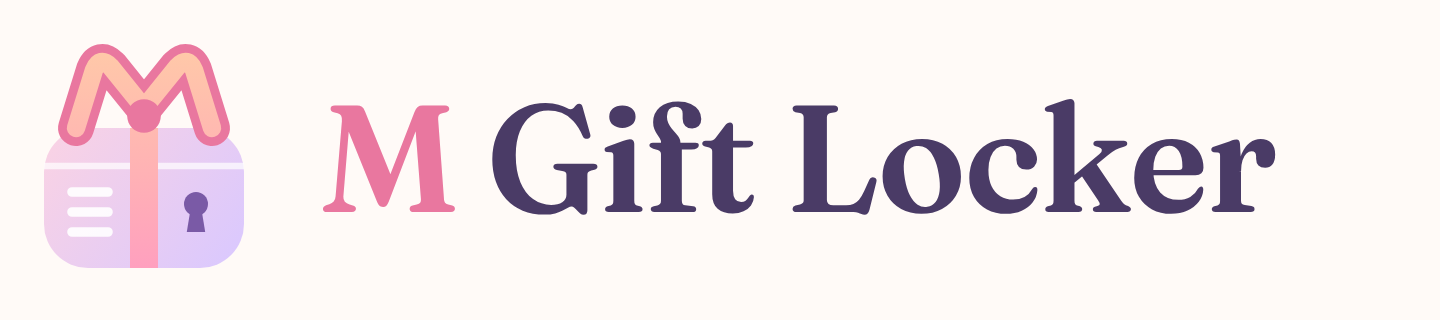
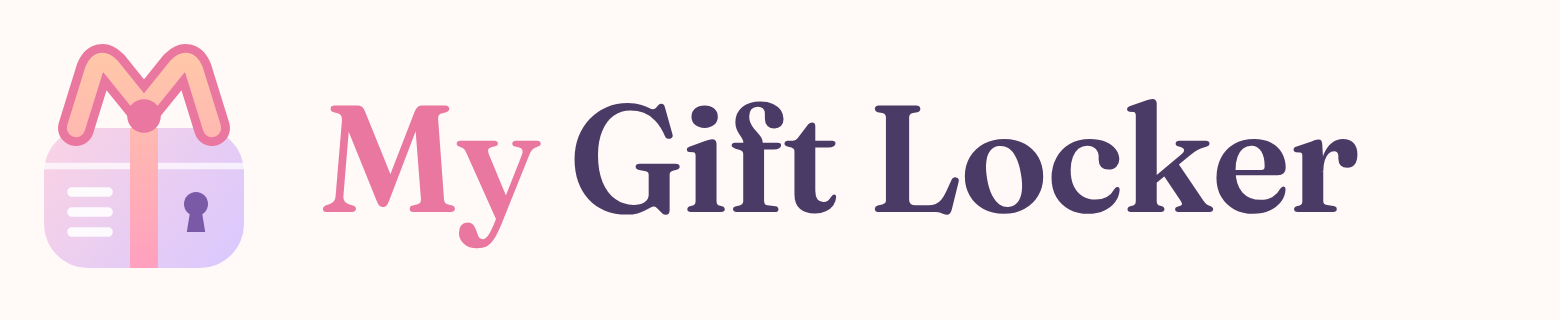
Rename to My Gift Locker: wordmark, lockup, metadata, app name, docs
Claude-Session: https://claude.ai/code/session_01KEA6tG7spbJtkkNm2jbTVp

Changed region(s): [[0.0312, 0.125, 0.9062, 0.8438]]

diff --git a/apps/web/app/page.tsx b/apps/web/app/page.tsx
@@ -26,7 +26,7 @@ export default function Home() {
             Every size, every date, <em className="text-rose not-italic">every</em> person you love.
           </h1>
           <p className="mt-6 max-w-lg text-lg text-ink-soft">
-            M Gift Locker keeps the details that make a gift feel personal — and makes gift exchanges with friends,
+            My Gift Locker keeps the details that make a gift feel personal — and makes gift exchanges with friends,
             family and coworkers effortless.
           </p>
           <div className="mt-9 flex flex-wrap gap-3">
@@ -53,7 +53,7 @@ export default function Home() {
         </div>
       </section>
 
-      <footer className="pb-10 text-center text-sm text-ink-soft">© {new Date().getFullYear()} M Gift Locker · mygiftlocker.com</footer>
+      <footer className="pb-10 text-center text-sm text-ink-soft">© {new Date().getFullYear()} My Gift Locker · mygiftlocker.com</footer>
     </main>
   );
 }

diff --git a/apps/web/app/layout.tsx b/apps/web/app/layout.tsx
@@ -7,10 +7,10 @@ const fraunces = Fraunces({ subsets: ["latin"], variable: "--font-fraunces", axe
 const nunito = Nunito({ subsets: ["latin"], variable: "--font-nunito" });
 
 export const metadata: Metadata = {
-  title: { default: "M Gift Locker", template: "%s · M Gift Locker" },
+  title: { default: "My Gift Locker", template: "%s · My Gift Locker" },
   description: "Keep everyone's sizes, addresses and special dates in one place — and run joyful gift exchanges.",
   metadataBase: new URL(process.env.NEXT_PUBLIC_SITE_URL ?? "https://mygiftlocker.com"),
-  openGraph: { siteName: "M Gift Locker", images: ["/lockup.svg"] },
+  openGraph: { siteName: "My Gift Locker", images: ["/lockup.svg"] },
 };
 
 export const viewport: Viewport = { themeColor: "#fffaf7" };

diff --git a/apps/web/components/Logo.tsx b/apps/web/components/Logo.tsx
@@ -1,6 +1,6 @@
 import { useId } from "react";
 
-/** The M Gift Locker mark: a gift-locker whose ribbon bow forms the "M". */
+/** The My Gift Locker mark: a gift-locker whose ribbon bow forms the "M". */
 export function LogoMark({ size = 40, className }: { size?: number; className?: string }) {
   const id = useId().replace(/:/g, "");
   return (
@@ -33,7 +33,7 @@ export function Logo({ size = 36 }: { size?: number }) {
     <span className="inline-flex items-center gap-2.5">
       <LogoMark size={size} />
       <span className="font-display text-[1.35rem] font-semibold tracking-tight">
-        <span className="text-rose">M</span> Gift Locker
+        <span className="text-rose">My</span> Gift Locker
       </span>
     </span>
   );

diff --git a/apps/web/app/invite/InviteBuilder.tsx b/apps/web/app/invite/InviteBuilder.tsx
@@ -172,7 +172,7 @@ function SharePanel({ url, from, to }: { url: string; from: string; to: string }
       </div>
 
       {canShare && (
-        <Button variant="soft" className="mt-3 w-full" onClick={() => navigator.share({ title: "M Gift Locker", text: `${from} invited you to M Gift Locker`, url }).catch(() => {})}>
+        <Button variant="soft" className="mt-3 w-full" onClick={() => navigator.share({ title: "My Gift Locker", text: `${from} invited you to My Gift Locker`, url }).catch(() => {})}>
           <Share2 className="h-4 w-4" /> More options…
         </Button>
       )}

diff --git a/packages/core/src/invite.ts b/packages/core/src/invite.ts
@@ -73,7 +73,7 @@ export interface ShareLinks {
 export function inviteShareLinks(url: string, fromName: string, toName?: string): ShareLinks {
   const hi = toName ? `Hi ${toName}! ` : "Hi! ";
   const body = `${hi}${fromName} wants to get your gifts just right. Add your sizes & favorite things to their Gift Locker (takes 2 min): ${url}`;
-  const subject = `${fromName} invited you to M Gift Locker 🎁`;
+  const subject = `${fromName} invited you to My Gift Locker 🎁`;
   const enc = encodeURIComponent;
   return {
     email: `mailto:?subject=${enc(subject)}&body=${enc(body)}`,

diff --git a/apps/web/components/SiteHeader.tsx b/apps/web/components/SiteHeader.tsx
@@ -4,7 +4,7 @@ import { Logo } from "./Logo";
 export function SiteHeader() {
   return (
     <header className="relative z-20 mx-auto flex max-w-6xl items-center justify-between px-5 py-5">
-      <Link href="/" aria-label="M Gift Locker home">
+      <Link href="/" aria-label="My Gift Locker home">
         <Logo />
       </Link>
       <nav className="flex items-center gap-1 text-[15px] font-bold text-ink-soft">

diff --git a/README.md b/README.md
@@ -1,6 +1,6 @@
-<p align="center"><img src="packages/brand/lockup-cream.png" alt="M Gift Locker" width="420"></p>
+<p align="center"><img src="packages/brand/lockup-cream.png" alt="My Gift Locker" width="420"></p>
 
-# M Gift Locker — mygiftlocker.com
+# My Gift Locker — mygiftlocker.com
 
 Keep everyone's sizes, addresses and special dates in one place — and run joyful gift exchanges.
 

diff --git a/docs/kids.md b/docs/kids.md
@@ -1,4 +1,4 @@
-# Kids in M Gift Locker: proposal
+# Kids in My Gift Locker: proposal
 
 Young kids can't (and legally shouldn't) have their own accounts, but they're the people
 whose sizes change fastest and who get the most gifts. The model below treats them as
